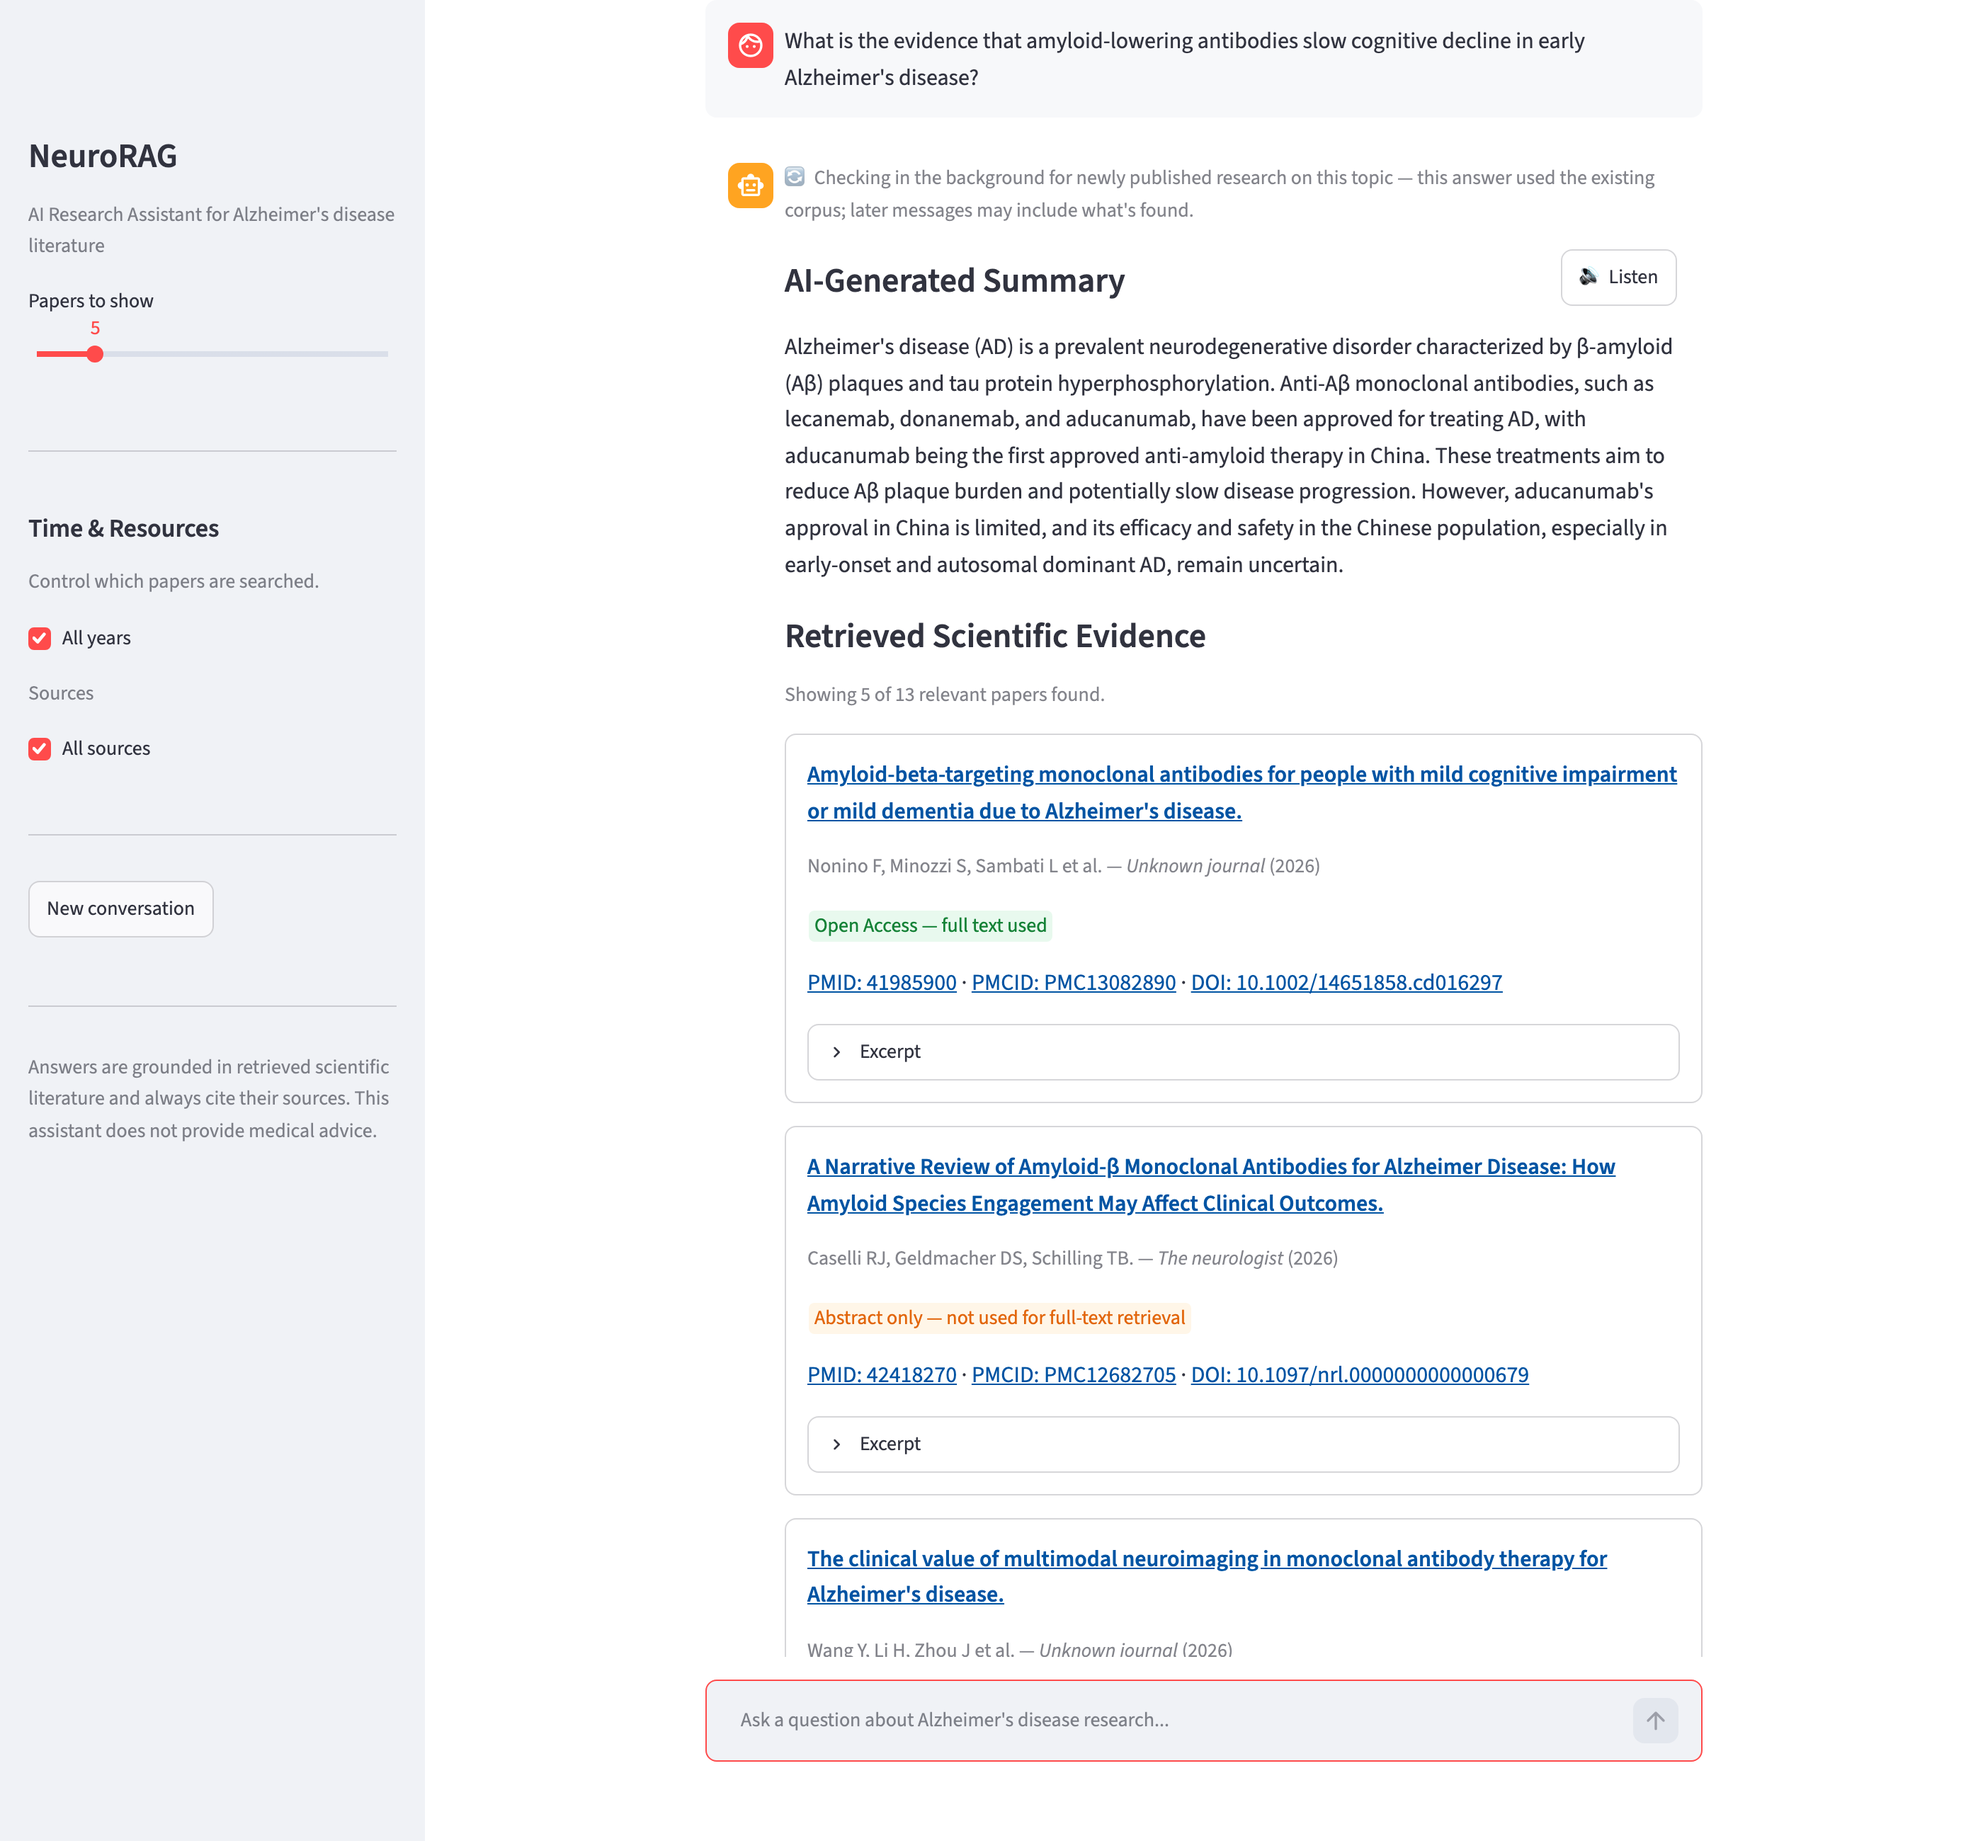
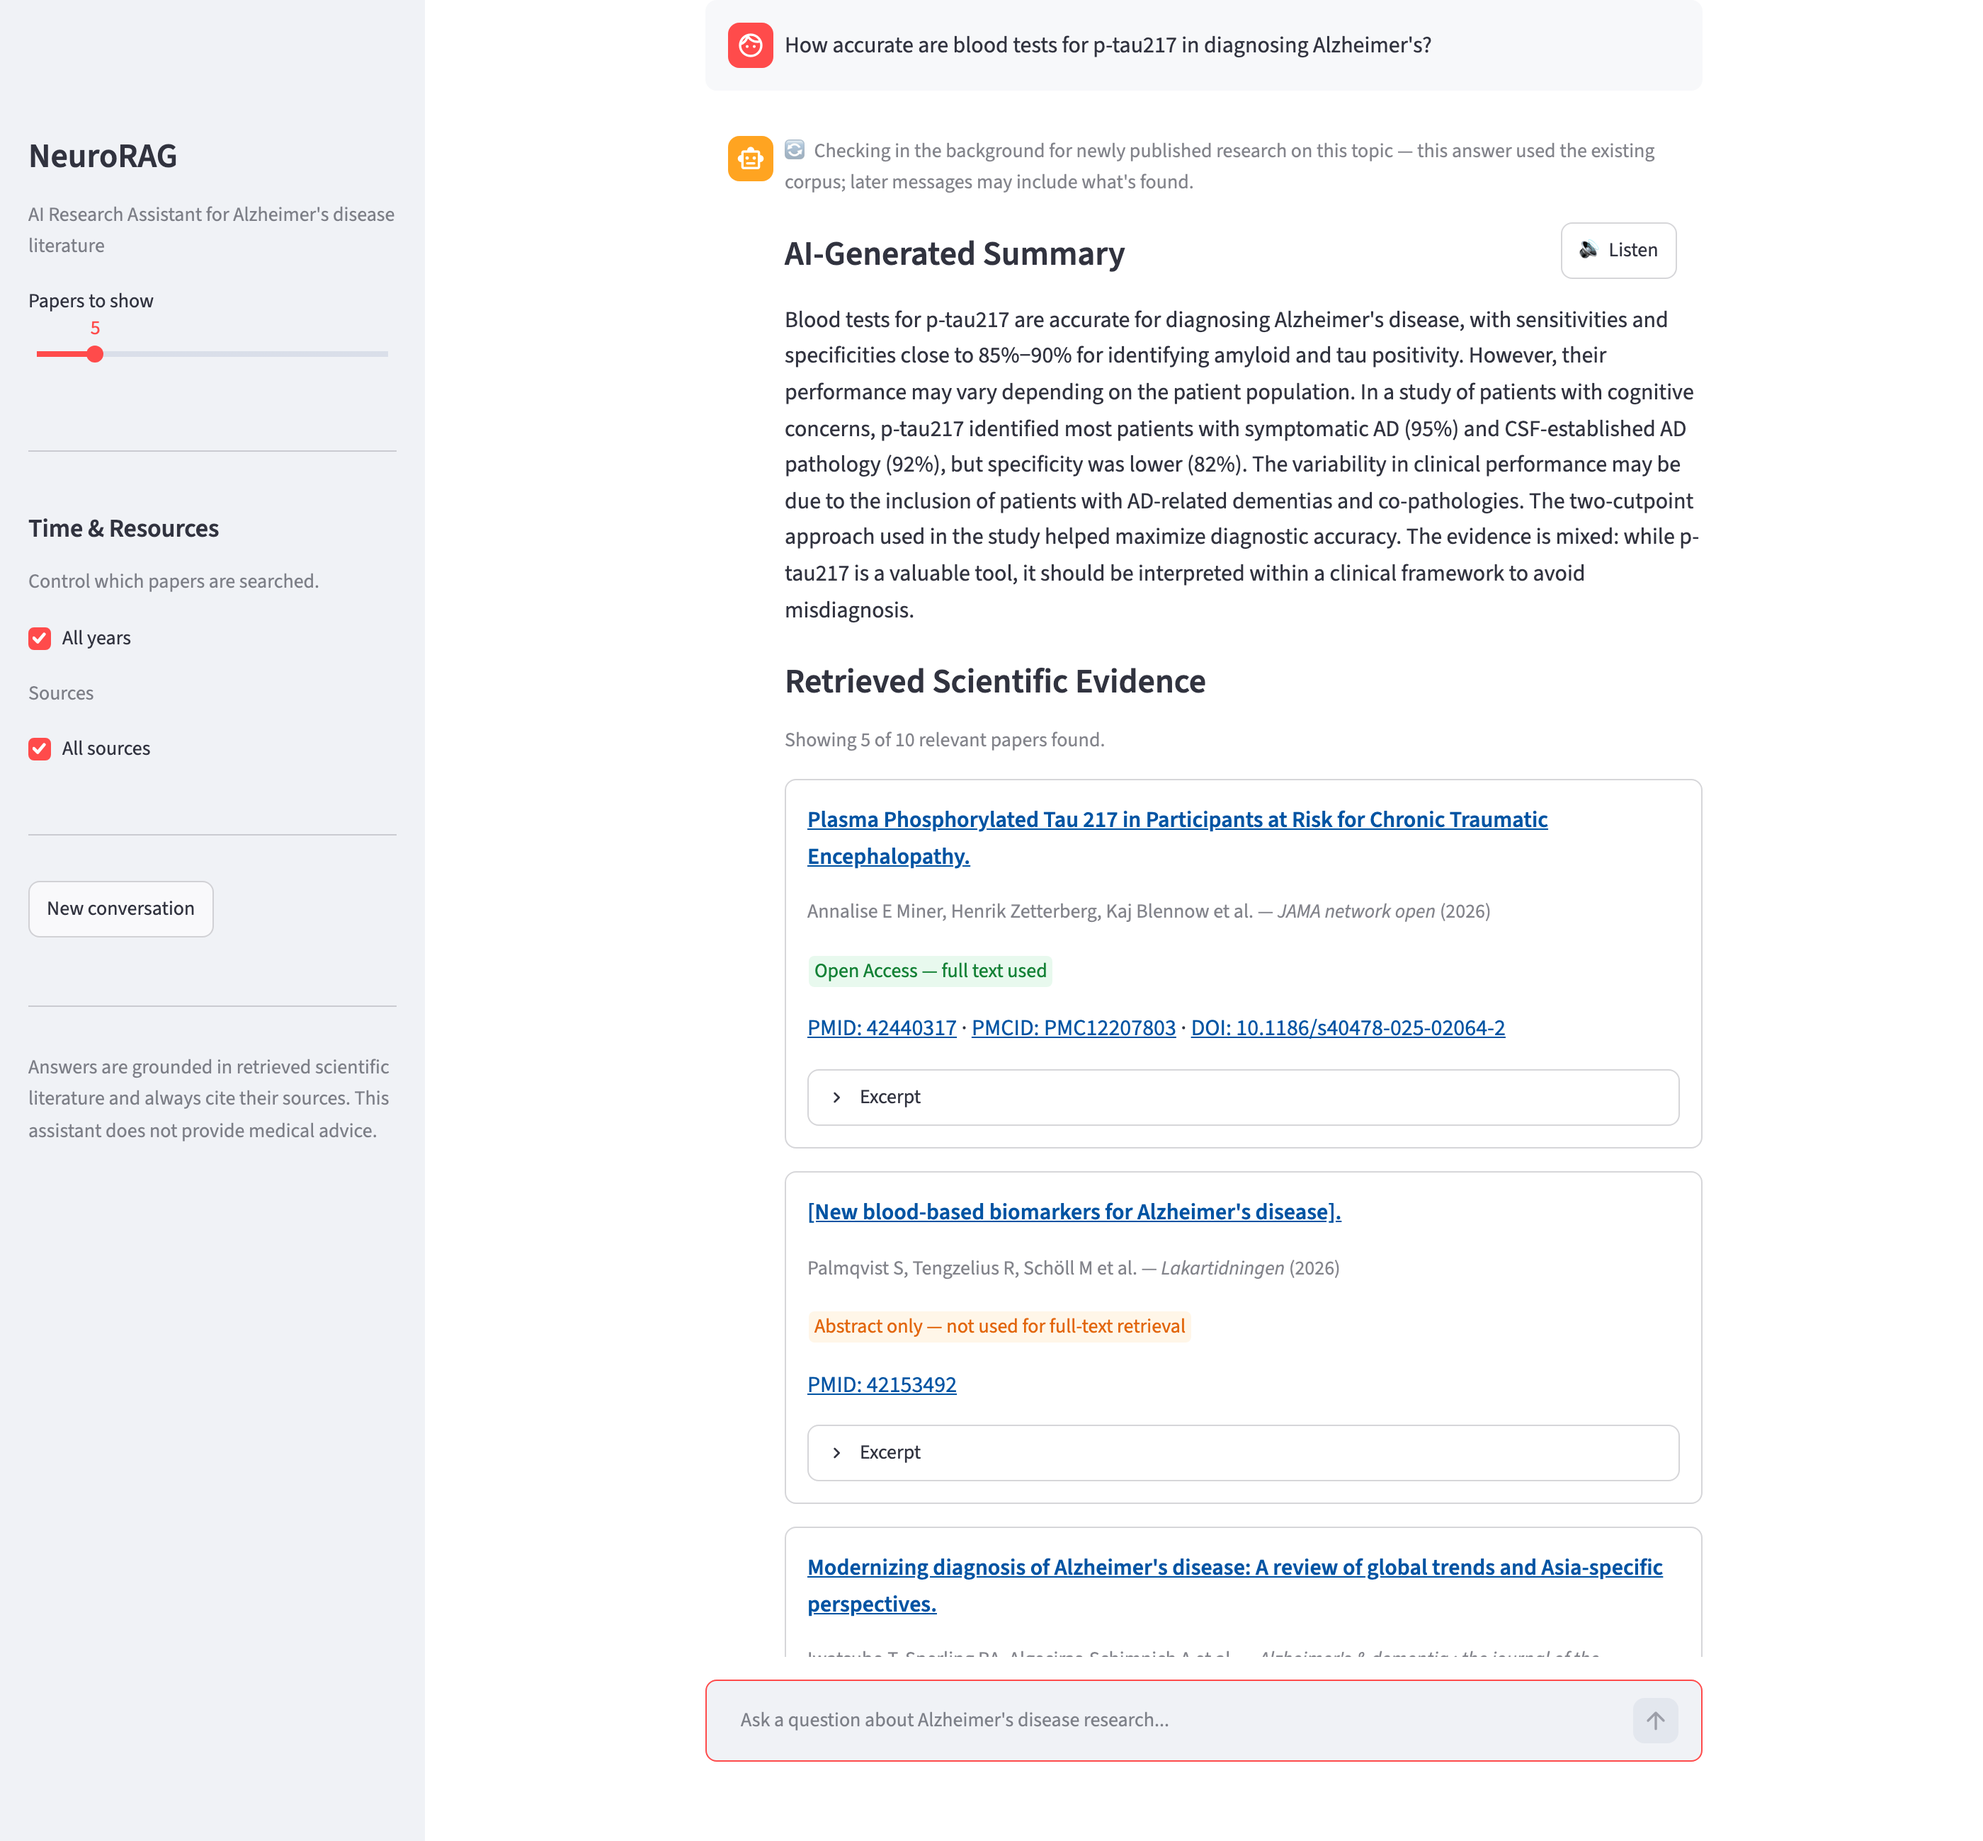
Fix missing Europe PMC journal names; make answers lead with a direct verdict
- Europe PMC core results nest the journal under journalInfo.journal; the
  client read the lite-only journalTitle field, so ~580 papers showed
  'Unknown journal'. Existing store backfilled.
- Synthesis prompt now opens with a one-sentence answer, keeps to the
  question, explains jargon, and restates the question after the evidence.
- Cap synthesis context at 2 chunks per paper for more distinct studies.
- Strip citation-list residue the model sometimes writes into prose.
- Refresh README screenshot.

Changed region(s): [[0.3729, 0.0, 0.8389, 0.81], [0.4039, 0.8412, 0.8389, 0.9035]]

diff --git a/agent/nodes/synthesize.py b/agent/nodes/synthesize.py
@@ -17,6 +17,9 @@ from prompts.loader import render_prompt
 _INTERNAL_ID_RE = re.compile(
     r"[\(\[]?\s*(?:pmid_\d+|pmcid_PMC\d+|doi_[0-9a-f]{12}|title_[0-9a-f]{12})(?:::chunk_\d+)?\s*[\)\]]?"
 )
+# Leftovers when the model starts writing a citation list into the prose anyway, e.g. a trailing
+# "Citations:,," after the IDs themselves were stripped, or a truncated "[chunk_id:".
+_CITATION_RESIDUE_RE = re.compile(r"\s*(?:\[\s*chunk_id\s*:?[^\]]*\]?|\b(?:citations|sources|references)\s*:[\s,;]*)$", re.IGNORECASE)
 _WHITESPACE_RE = re.compile(r"[ \t]{2,}")
 _SPACE_BEFORE_PUNCT_RE = re.compile(r"\s+([.,;:!?])")
 
@@ -26,11 +29,14 @@ _SPACE_BEFORE_PUNCT_RE = re.compile(r"\s+([.,;:!?])")
 # without touching accuracy, since grade_relevance already ranked chunks by similarity, so the
 # ones cut are the least relevant.
 SYNTHESIS_CHUNK_LIMIT = 8
+# Tighter than grade.py's per-paper cap: with only 8 slots, one long paper taking 3 of them
+# crowds out other studies and tends to pull the summary toward that paper's side topics.
+SYNTHESIS_MAX_CHUNKS_PER_DOC = 2
 
 
 def synthesize_answer(state: AgentState) -> dict:
     model = get_chat_model().with_structured_output(SynthesisOutput)
-    top_chunks = sorted(state["graded_chunks"], key=lambda c: c.distance)[:SYNTHESIS_CHUNK_LIMIT]
+    top_chunks = _select_synthesis_chunks(state["graded_chunks"])
     chunks_block = _format_chunks(top_chunks)
     prompt = render_prompt("synthesize_answer", question=state["original_question"], chunks_block=chunks_block)
 
@@ -47,8 +53,23 @@ def synthesize_answer(state: AgentState) -> dict:
     }
 
 
+def _select_synthesis_chunks(chunks: list[RetrievedChunk]) -> list[RetrievedChunk]:
+    per_doc: dict[str, int] = {}
+    selected = []
+    for chunk in sorted(chunks, key=lambda c: c.distance):
+        doc_id = chunk.metadata.doc_id
+        if per_doc.get(doc_id, 0) >= SYNTHESIS_MAX_CHUNKS_PER_DOC:
+            continue
+        per_doc[doc_id] = per_doc.get(doc_id, 0) + 1
+        selected.append(chunk)
+        if len(selected) == SYNTHESIS_CHUNK_LIMIT:
+            break
+    return selected
+
+
 def _strip_internal_ids(text: str) -> str:
     cleaned = _INTERNAL_ID_RE.sub("", text)
+    cleaned = _CITATION_RESIDUE_RE.sub("", cleaned.rstrip())
     cleaned = _WHITESPACE_RE.sub(" ", cleaned)
     return _SPACE_BEFORE_PUNCT_RE.sub(r"\1", cleaned).strip()
 

diff --git a/tests/agent/test_synthesize.py b/tests/agent/test_synthesize.py
@@ -36,3 +36,24 @@ def test_no_stray_space_before_punctuation():
     result = _strip_internal_ids(text)
     assert " ." not in result
     assert result == "diverse populations. This approval marks progress."
+
+
+def test_strips_trailing_citation_list_residue():
+    text = "Sleep loss is linked to amyloid buildup. Citations: pmid_1::chunk_0, pmid_2::chunk_3"
+    assert _strip_internal_ids(text) == "Sleep loss is linked to amyloid buildup."
+
+
+def test_strips_truncated_chunk_id_marker():
+    text = "Interpret within a clinical context. [chunk_id:"
+    assert _strip_internal_ids(text) == "Interpret within a clinical context."
+
+
+def test_select_synthesis_chunks_caps_per_paper():
+    from types import SimpleNamespace
+
+    from agent.nodes.synthesize import SYNTHESIS_MAX_CHUNKS_PER_DOC, _select_synthesis_chunks
+
+    chunks = [SimpleNamespace(distance=i / 10, metadata=SimpleNamespace(doc_id="a")) for i in range(4)]
+    chunks.append(SimpleNamespace(distance=0.9, metadata=SimpleNamespace(doc_id="b")))
+    selected = _select_synthesis_chunks(chunks)
+    assert [c.metadata.doc_id for c in selected] == ["a"] * SYNTHESIS_MAX_CHUNKS_PER_DOC + ["b"]

diff --git a/retrieval/europepmc_client.py b/retrieval/europepmc_client.py
@@ -45,6 +45,14 @@ def search(query: str, max_results: int = 200, page_size: int = 100) -> list[Raw
     return records
 
 
+def _journal_title(item: dict) -> str:
+    """resultType=core nests the journal under journalInfo; the flat journalTitle field only
+    exists in the lite format, so check both."""
+    journal = item.get("journalInfo", {}).get("journal", {})
+    title = journal.get("title") or journal.get("isoabbreviation") or item.get("journalTitle") or ""
+    return strip_html_tags(title) or ""
+
+
 def _to_raw_record(item: dict) -> RawRecord:
     pmid = item.get("pmid")
     pmcid = item.get("pmcid")
@@ -73,7 +81,7 @@ def _to_raw_record(item: dict) -> RawRecord:
     return RawRecord(
         title=strip_html_tags(item.get("title", "")) or "",
         authors=[a.strip() for a in item.get("authorString", "").split(",") if a.strip()],
-        journal=strip_html_tags(item.get("journalTitle", "")) or "",
+        journal=_journal_title(item),
         publication_year=year,
         abstract=strip_html_tags(item.get("abstractText")),
         pmid=pmid,

diff --git a/tests/retrieval/test_europepmc_client.py b/tests/retrieval/test_europepmc_client.py
@@ -1,0 +1,18 @@
+from retrieval.europepmc_client import _to_raw_record
+
+
+def _item(**overrides) -> dict:
+    return {"title": "Amyloid paper", "pmid": "1", "source": "MED", "id": "1", **overrides}
+
+
+def test_reads_journal_from_core_result_type():
+    item = _item(journalInfo={"journal": {"title": "Glia", "isoabbreviation": "Glia"}})
+    assert _to_raw_record(item).journal == "Glia"
+
+
+def test_falls_back_to_lite_journal_title():
+    assert _to_raw_record(_item(journalTitle="Neurology")).journal == "Neurology"
+
+
+def test_missing_journal_is_empty_string():
+    assert _to_raw_record(_item()).journal == ""

diff --git a/prompts/synthesize_answer.md b/prompts/synthesize_answer.md
@@ -6,12 +6,21 @@ Question:
 Retrieved evidence (each chunk has a chunk_id you must use for citations — cite ONLY these IDs, and cite every chunk_id your summary actually relies on):
 {{chunks_block}}
 
+How to write `evidence_summary`:
+- Open with one sentence that directly answers the question (e.g. "Yes — …", "Modestly — …", "The evidence is mixed: …"). If the evidence can't answer it, say that in this first sentence.
+- Then give the key supporting findings, preferring concrete results (effect sizes, percentages, trial or cohort names) over background. Note important caveats or limitations the evidence mentions.
+- Leave out anything that doesn't help answer this specific question — no general disease background, regulatory or funding asides, unless the question asks for them.
+- 4-7 sentences. Briefly explain each technical term or abbreviation the first time you use it.
+
 Hard rules:
 1. Use ONLY the information in the chunks above. Do not use outside knowledge, and do not invent facts, numbers, or study findings not present in the text.
-2. Every factual claim in `evidence_summary` must be grounded in at least one of the provided chunks. List every chunk_id you relied on in the `citations` field — do not cite a chunk_id that isn't listed above.
+2. Every factual claim in `evidence_summary` must be grounded in at least one of the provided chunks. List EVERY chunk_id you took any fact, number, or finding from in the `citations` field (that field only — never in the prose). Do not cite a chunk_id that isn't listed above.
 3. If the provided chunks don't actually answer the question, say so plainly in `evidence_summary` rather than filling the gap with unsupported claims.
 4. Only populate `interpretation` if the user's question explicitly asks for an opinion, recommendation, or personal take. Otherwise leave it null — do not blend interpretation into the evidence summary.
 5. Do NOT add any inline reference mark in `evidence_summary` — no footnote-style numbers like [1] or [16], no (Author et al.) style citations, and NEVER write a chunk_id or doc_id (e.g. "pmid_42338648", "pmcid_PMC12819041") anywhere in the prose, parenthetical or otherwise. Those are internal identifiers for the `citations` field only — a user reading `evidence_summary` must never see one. Sourcing is tracked entirely through the separate `citations` field; write `evidence_summary` as plain prose with zero inline markers of any kind.
 6. Also fill `suggested_questions` with 2-4 short, natural next questions the user might ask — something that goes deeper on an aspect you covered, broadens to a related angle, or is a natural next step (treatments, mechanisms, risk factors, diagnosis, recent research), depending on fit. Keep each under ~15 words, phrased the way a user would type it. Don't suggest something you already fully covered.
+
+Reminder — the question you must answer directly is:
+{{question}}
 
 Respond with the structured output only.

diff --git a/README.md b/README.md
@@ -11,7 +11,7 @@ papers — every claim is cited back to a real source, with full publication met
 
 Built for both general-audience users and domain experts/researchers.
 
-![NeuroRAG answering a question about anti-amyloid antibodies, with cited papers](docs/screenshot.png)
+![NeuroRAG answering a question about p-tau217 blood tests, with cited papers](docs/screenshot.png)
 
 ## Highlights
 
